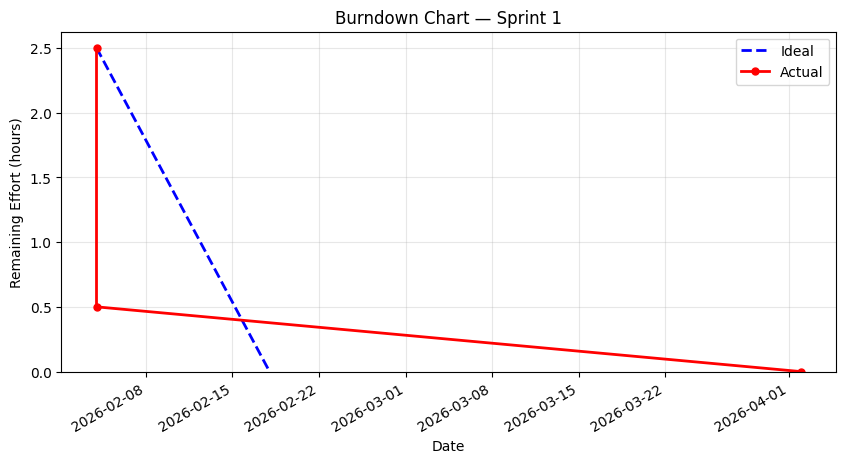
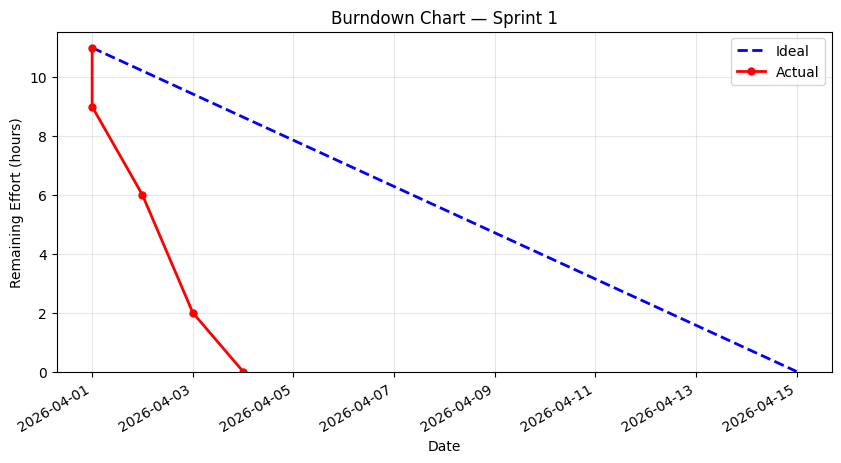
feat(project): add Project model, migration, and seed script

diff --git a/seed.py b/seed.py
@@ -1,0 +1,94 @@
+from app import app
+from models import db, User, Project, PBI, Sprint, Task, EffortLog
+from datetime import date
+
+
+def seed():
+    with app.app_context():
+        # Clear existing data
+        EffortLog.query.delete()
+        Task.query.delete()
+        PBI.query.delete()
+        Sprint.query.delete()
+        Project.query.delete()
+        User.query.delete()
+        db.session.commit()
+
+        # Create users
+        dev1 = User(username="alice", role="developer")
+        dev1.set_password("password123")
+
+        dev2 = User(username="bob", role="developer")
+        dev2.set_password("password123")
+
+        client = User(username="carol", role="client")
+        client.set_password("password123")
+
+        db.session.add_all([dev1, dev2, client])
+        db.session.commit()
+
+        # Create project
+        project = Project(
+            name="Demo Scrum Project",
+            description="A demo project to showcase the ScrumManager app."
+        )
+        db.session.add(project)
+        db.session.commit()
+
+        # Create PBIs
+        pbis = [
+            PBI(title="User login page", priority="H", effort=5.0, status="Complete", project_id=project.id),
+            PBI(title="Home page UI", priority="H", effort=8.0, status="Complete", project_id=project.id),
+            PBI(title="Product backlog view", priority="M", effort=5.0, status="Complete", project_id=project.id),
+            PBI(title="Sprint planning tool", priority="M", effort=8.0, status="Incomplete", project_id=project.id),
+            PBI(title="Burndown chart", priority="L", effort=6.0, status="Incomplete", project_id=project.id),
+            PBI(title="Email notifications", priority="L", effort=4.0, status="Incomplete", project_id=project.id),
+        ]
+        db.session.add_all(pbis)
+        db.session.commit()
+
+        # Create sprints
+        sprint1 = Sprint(capacity=18.0, status="Complete", project_id=project.id)
+        sprint2 = Sprint(capacity=14.0, status="Active", project_id=project.id)
+        db.session.add_all([sprint1, sprint2])
+        db.session.commit()
+
+        # Assign PBIs to sprints
+        pbis[0].sprint_id = sprint1.id
+        pbis[1].sprint_id = sprint1.id
+        pbis[2].sprint_id = sprint1.id
+        pbis[3].sprint_id = sprint2.id
+        pbis[4].sprint_id = sprint2.id
+        db.session.commit()
+
+        # Create tasks
+        tasks = [
+            Task(title="Design login form", estimated_effort=2.0, status="Done", pbi_id=pbis[0].id),
+            Task(title="Implement auth logic", estimated_effort=3.0, status="Done", pbi_id=pbis[0].id),
+            Task(title="Build homepage layout", estimated_effort=4.0, status="Done", pbi_id=pbis[1].id),
+            Task(title="Add navigation bar", estimated_effort=2.0, status="Done", pbi_id=pbis[1].id),
+            Task(title="Write unit tests", estimated_effort=2.0, status="Not Started", pbi_id=pbis[3].id),
+            Task(title="Sprint capacity logic", estimated_effort=3.0, status="In Progress", pbi_id=pbis[3].id),
+        ]
+        db.session.add_all(tasks)
+        db.session.commit()
+
+        # Log some effort
+        logs = [
+            EffortLog(task_id=tasks[0].id, date=date(2026, 4, 1), hours_spent=2.0),
+            EffortLog(task_id=tasks[1].id, date=date(2026, 4, 2), hours_spent=3.0),
+            EffortLog(task_id=tasks[2].id, date=date(2026, 4, 3), hours_spent=4.0),
+            EffortLog(task_id=tasks[3].id, date=date(2026, 4, 4), hours_spent=2.0),
+            EffortLog(task_id=tasks[5].id, date=date(2026, 4, 10), hours_spent=1.5),
+        ]
+        db.session.add_all(logs)
+        db.session.commit()
+
+        print("✅ Database seeded successfully!")
+        print(f"   Users: alice, bob (developers), carol (client) — all password: password123")
+        print(f"   Project: {project.name}")
+        print(f"   PBIs: {len(pbis)}, Sprints: 2, Tasks: {len(tasks)}")
+
+
+if __name__ == "__main__":
+    seed()

diff --git a/models.py b/models.py
@@ -28,6 +28,24 @@ class User(UserMixin, db.Model):
             "role": self.role,
         }
         
+class Project(db.Model):
+    __tablename__ = "projects"
+
+    id = db.Column(db.Integer, primary_key=True)
+    name = db.Column(db.String(200), nullable=False)
+    description = db.Column(db.Text, nullable=True)
+    created_at = db.Column(db.DateTime, default=datetime.utcnow)
+
+    pbis = db.relationship("PBI", backref="project", lazy=True)
+    sprints = db.relationship("Sprint", backref="project", lazy=True)
+
+    def to_dict(self):
+        return {
+            "id": self.id,
+            "name": self.name,
+            "description": self.description,
+        }
+        
 class PBI(db.Model):
     __tablename__ = "pbis"
 
@@ -38,6 +56,7 @@ class PBI(db.Model):
     status = db.Column(db.String(20), default="Incomplete")
     sprint_id = db.Column(db.Integer, db.ForeignKey("sprints.id"), nullable=True)
     created_at = db.Column(db.DateTime, default=datetime.utcnow)
+    project_id = db.Column(db.Integer, db.ForeignKey("projects.id"), nullable=True)
 
     tasks = db.relationship("Task", backref="pbi", lazy=True)
 
@@ -59,6 +78,7 @@ class Sprint(db.Model):
     capacity = db.Column(db.Float, nullable=False)
     status = db.Column(db.String(20), default="Planned")
     created_at = db.Column(db.DateTime, default=datetime.utcnow)
+    project_id = db.Column(db.Integer, db.ForeignKey("projects.id"), nullable=True)
 
     pbis = db.relationship("PBI", backref="sprint", lazy=True)
 

diff --git a/migrations/versions/4a7011c7f55e_add_project_model_and_link_to_pbi_and_.py b/migrations/versions/4a7011c7f55e_add_project_model_and_link_to_pbi_and_.py
@@ -1,0 +1,42 @@
+"""add project model and link to PBI and sprint
+
+Revision ID: 4a7011c7f55e
+Revises: 09d1b7916e9e
+Create Date: 2026-05-11 10:35:29.136951
+
+"""
+from alembic import op
+import sqlalchemy as sa
+
+
+# revision identifiers, used by Alembic.
+revision = '4a7011c7f55e'
+down_revision = '09d1b7916e9e'
+branch_labels = None
+depends_on = None
+
+
+def upgrade():
+    # ### commands auto generated by Alembic - please adjust! ###
+    with op.batch_alter_table('pbis', schema=None) as batch_op:
+        batch_op.add_column(sa.Column('project_id', sa.Integer(), nullable=True))
+        batch_op.create_foreign_key(None, 'projects', ['project_id'], ['id'])
+
+    with op.batch_alter_table('sprints', schema=None) as batch_op:
+        batch_op.add_column(sa.Column('project_id', sa.Integer(), nullable=True))
+        batch_op.create_foreign_key(None, 'projects', ['project_id'], ['id'])
+
+    # ### end Alembic commands ###
+
+
+def downgrade():
+    # ### commands auto generated by Alembic - please adjust! ###
+    with op.batch_alter_table('sprints', schema=None) as batch_op:
+        batch_op.drop_constraint(None, type_='foreignkey')
+        batch_op.drop_column('project_id')
+
+    with op.batch_alter_table('pbis', schema=None) as batch_op:
+        batch_op.drop_constraint(None, type_='foreignkey')
+        batch_op.drop_column('project_id')
+
+    # ### end Alembic commands ###
